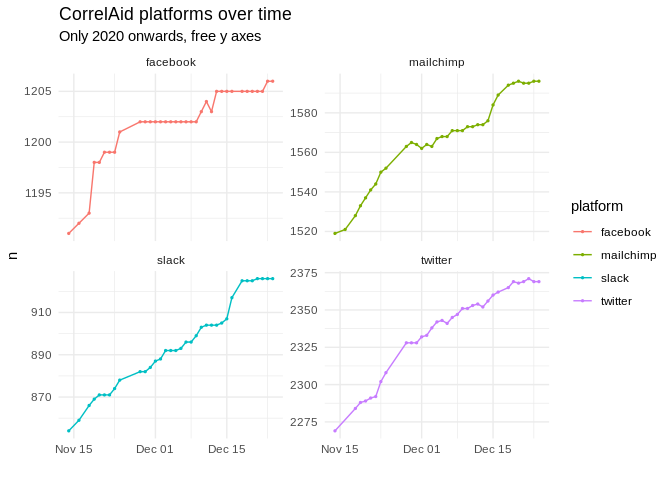
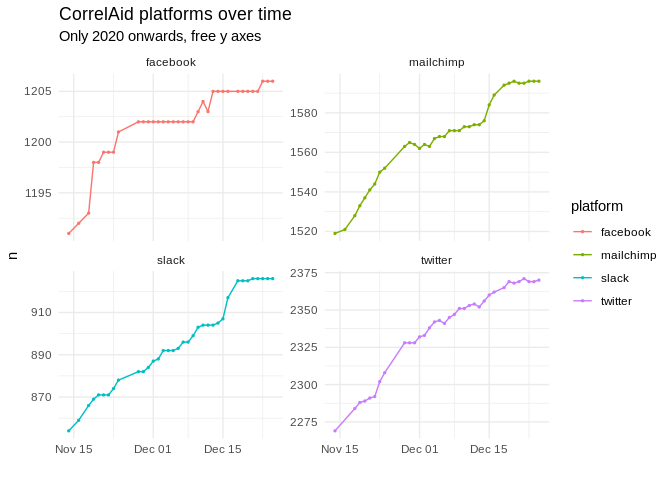
🤖 CRON - update daily data

diff --git a/README.md b/README.md
@@ -25,7 +25,7 @@ count and general network data on a daily basis using
 
 ### Plots
 
-*last updated*: 2020-12-24
+*last updated*: 2020-12-25
 23:50:12
 
 ![](README_files/figure-gfm/plot-alltime-1.png)<!-- -->
